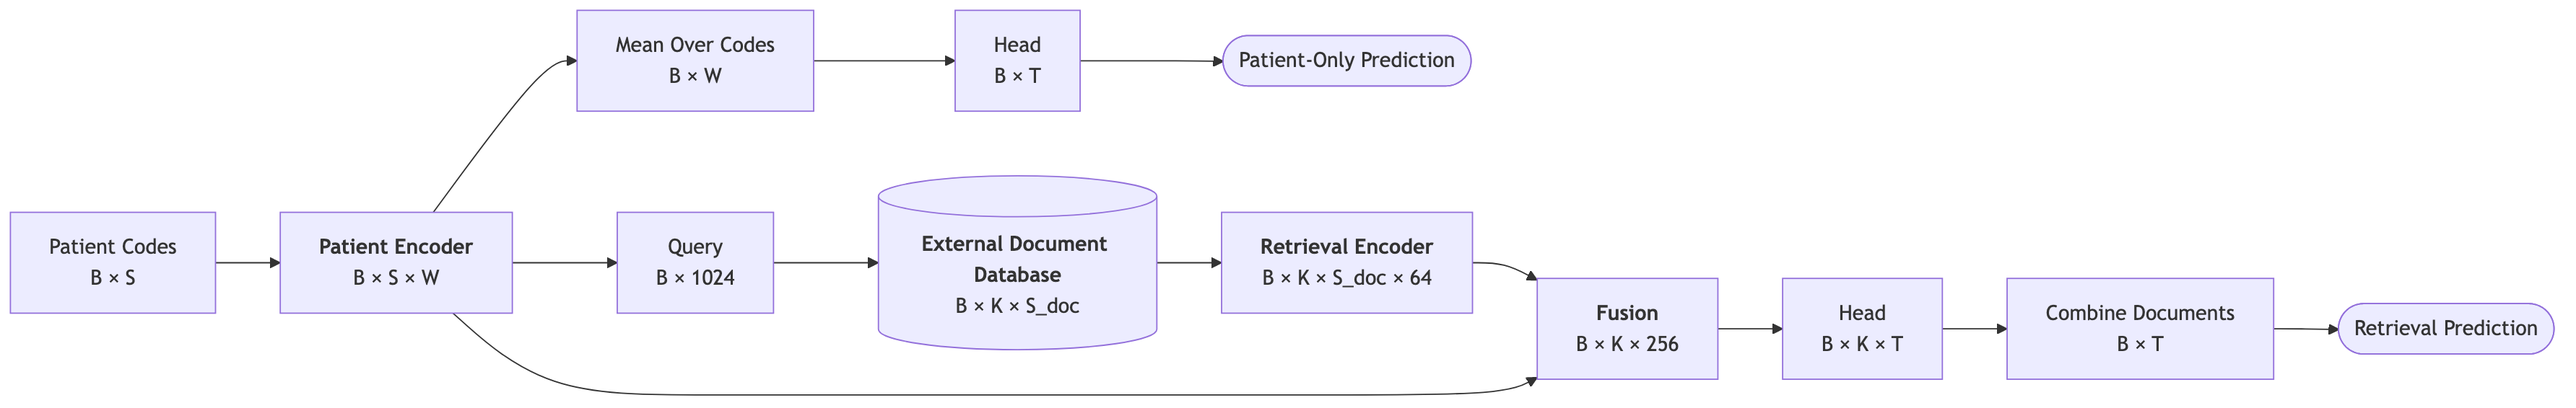
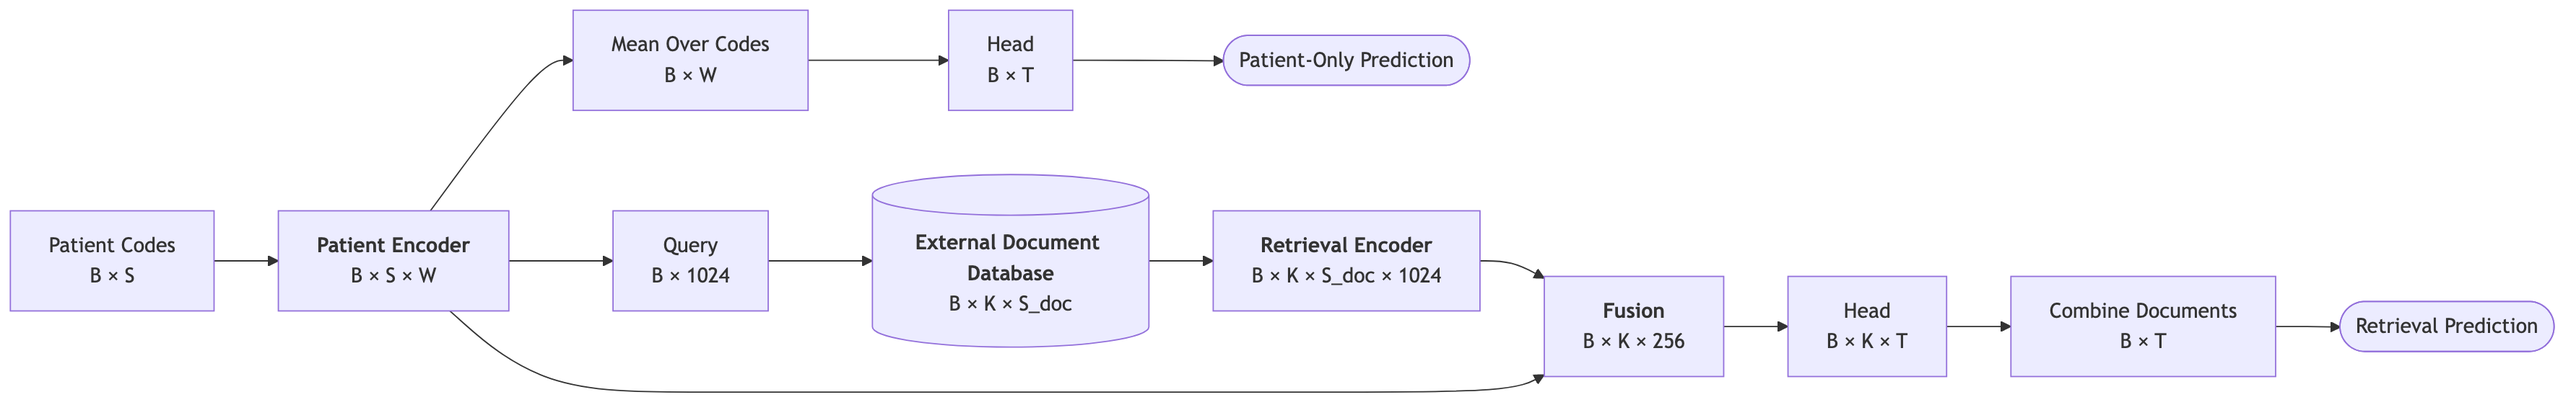
docs(scaling_laws): frozen Qwen3 token embeddings as the retrieval encoder
Per review: replace the randomly initialized, trained 151,936 x 64 document
token table with Qwen3's frozen embed_tokens (1024-d) in both retrieval
configurations; contextual Qwen3 hidden states noted as the next step.

diff --git a/scaling_laws/design.md b/scaling_laws/design.md
@@ -34,8 +34,8 @@ and the fusion combines the patient with each document before the head predicts.
 | Head | one linear layer: one logit per task | B × T, or B × K × T per document |
 | Query | mean over codes, then linear W → 1024 (#2), or a frozen Qwen3 text embedding (#3) | B × 1024 |
 | External Document Database | textbook passages + one null document, each with a fixed 1024-d key; returns the top K by query · key | B × K × S_doc |
-| Retrieval Encoder | token embedding of each retrieved document | B × K × S_doc × 64 |
-| Fusion | patient codes attend to one document at a time (cross-attention), then mean over codes | B × K × 256 |
+| Retrieval Encoder | frozen Qwen3 token embeddings (`embed_tokens`, 151,936 × 1,024) of each retrieved document | B × K × S_doc × 1024 |
+| Fusion | patient codes attend to one document at a time (cross-attention; keys and values projected 1024 → 256), then mean over codes | B × K × 256 |
 | Combine Documents | weighted average of the per-document predictions; weights from query · key | B × T |
 
 ## Model Architectures Configurations
@@ -49,6 +49,15 @@ and the fusion combines the patient with each document before the head predicts.
 **Database.** The external database always holds the medical-textbook passages **plus a null
 (empty) document**, so the model can retrieve "nothing" when no passage helps. There is no
 separate null-docs configuration.
+
+**Retrieval encoder.** Both retrieval configurations (#2, #3) represent documents with Qwen3's
+frozen token embeddings, the same tokenizer the database was built with. Nothing on the document
+side is trained except the fusion's key and value projections (~1M parameters). This replaces
+the randomly initialized 151,936 × 64 token table used so far, which was trained from scratch
+and was larger than the patient encoder at every width up to 128.
+
+**Next, after these runs.** Represent documents with Qwen3's contextual hidden states (the full
+model run over each retrieved document) instead of its context-free token embeddings.
 
 
 ## Loss
